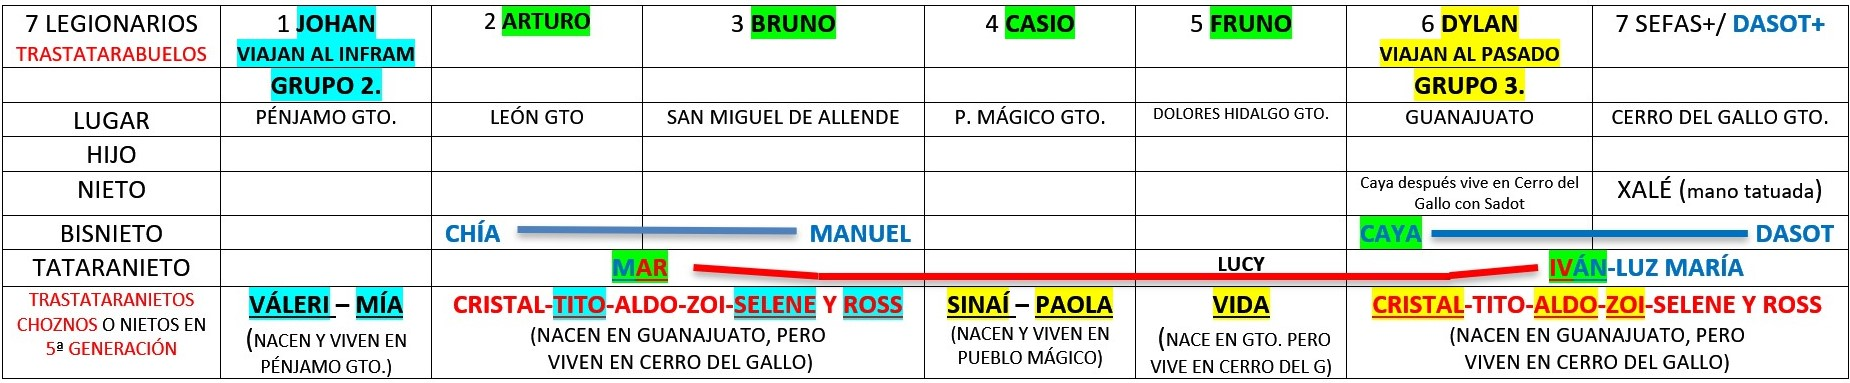
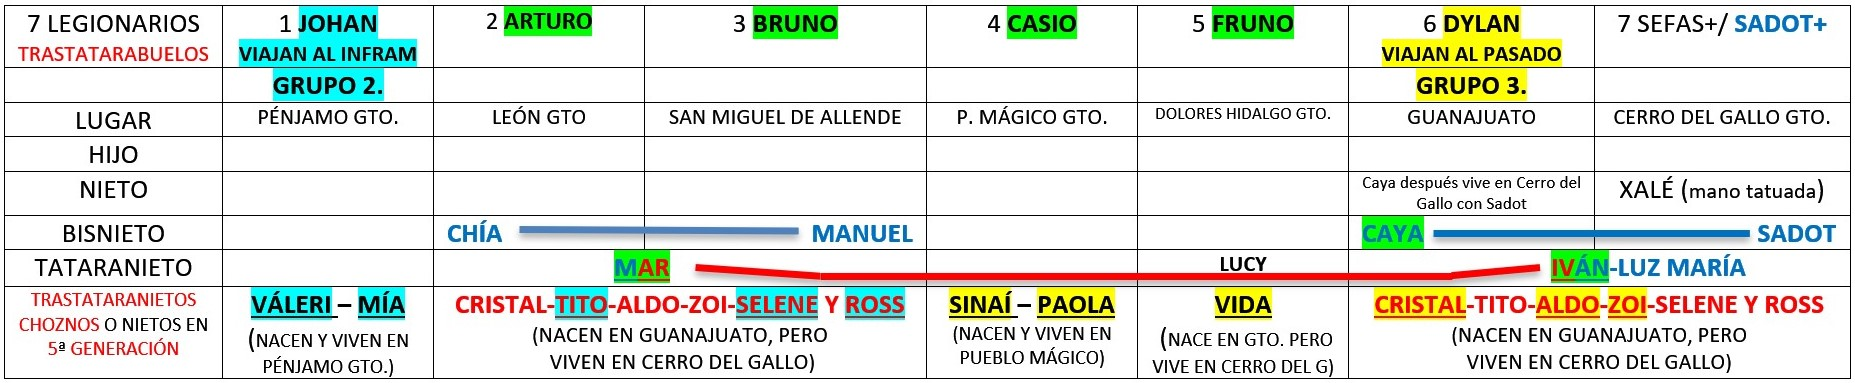
Regresa Sadot

diff --git a/El_libro.html b/El_libro.html
@@ -89,7 +89,7 @@
                             desde la creación del hombre. Su noble intención, es la de ayudar de una manera espiritual a
                             quienes lo necesitan. Esta ¨Gran Orden de los Ave Fénix Z¨, también son conocidos como: La
                             Legión de los A.F.Z. (aefezeta).<br><br>
-                            Desde la tarde-noche en Cerro del Gallo, dentro de una casa de estilo colonial, Dasot, de 23
+                            Desde la tarde-noche en Cerro del Gallo, dentro de una casa de estilo colonial, Sadot, de 23
                             años, quien habita este hogar, recibe de manera cortés y serena a los legionarios. Le da la
                             bienvenida a cada uno conforme van llegando, mencionando sus nombres
                             respectivamente.<br><br>
@@ -102,13 +102,13 @@
                             conocimientos a los discípulos. Les da la bienvenida a sus hermanos, quienes, vestidos de
                             igual manera, son los maestros de ¨La Orden de los A.F.Z.¨. Estos, estando sentados, se
                             incorporan al momento en que Bruno habla.<br><br>
-                            <b>BRUNO</b>: ¡Queridos hermanos, sean bienvenidos!, en un instante, Dasot, Manuel, Xalé, Caya y
+                            <b>BRUNO</b>: ¡Queridos hermanos, sean bienvenidos!, en un instante, Sadot, Manuel, Xalé, Caya y
                             Chía, traerán el cuerpo embalsamado de nuestro amado hermano.<br><br>
-                            Vestidos igual que los legionarios, solo que sus túnicas son color turquesa. Dasot, Manuel,
+                            Vestidos igual que los legionarios, solo que sus túnicas son color turquesa. Sadot, Manuel,
                             Caya y Chía, todos de 23 años, con Xalé de 46, a quien nunca se le ve el rostro, únicamente
                             un tatuaje en su mano derecha, llevan el cuerpo inerte de Sefas, que postran en un altar,
                             éste, en la superficie y costados, tiene símbolos iguales a los del cofre.<br><br>
-                            Después de esto, los que están vestidos de color turquesa, salen del salón, excepto Dasot,
+                            Después de esto, los que están vestidos de color turquesa, salen del salón, excepto Sadot,
                             quien es mirado con ojos de amor por Caya, que exhala un suspiro por él.<br><br>
                             <b>CHÍA</b>: (Observando los hechos) Caya, tantos años enamorada, ¿y él no lo sabe? Anda,
                             díselo.<br><br>
@@ -139,7 +139,7 @@
                             Ya en el panteón, a medio día, los legionarios levantan en hombros el féretro para
                             depositarlo en un nicho, amigos y familiares van poniendo flores.<br><br>
                             <b>DYLAN</b>: (A los maestros en voz baja) Queridos hermanos, hoy mismo iniciaremos a nuestro
-                            hermano Dasot.<br><br>
+                            hermano Sadot.<br><br>
                             Todos asientan con la cabeza y se notan emocionados sin perder la elegancia y
                             sencillez.<br><br>
                             Manuel declama un poema. En su cénit, atraviesa una ave Fénix que cruza los cielos. Solo

diff --git a/La_serie.html b/La_serie.html
@@ -266,7 +266,7 @@
 
                             ZOI<br>
                             Si papito, como tú y mamá, como la
-                            abuela Caya y el abuelo Dasot. Con
+                            abuela Caya y el abuelo Sadot. Con
                             ese amor verdadero como para
                             casarme con él.<br><br>
 
